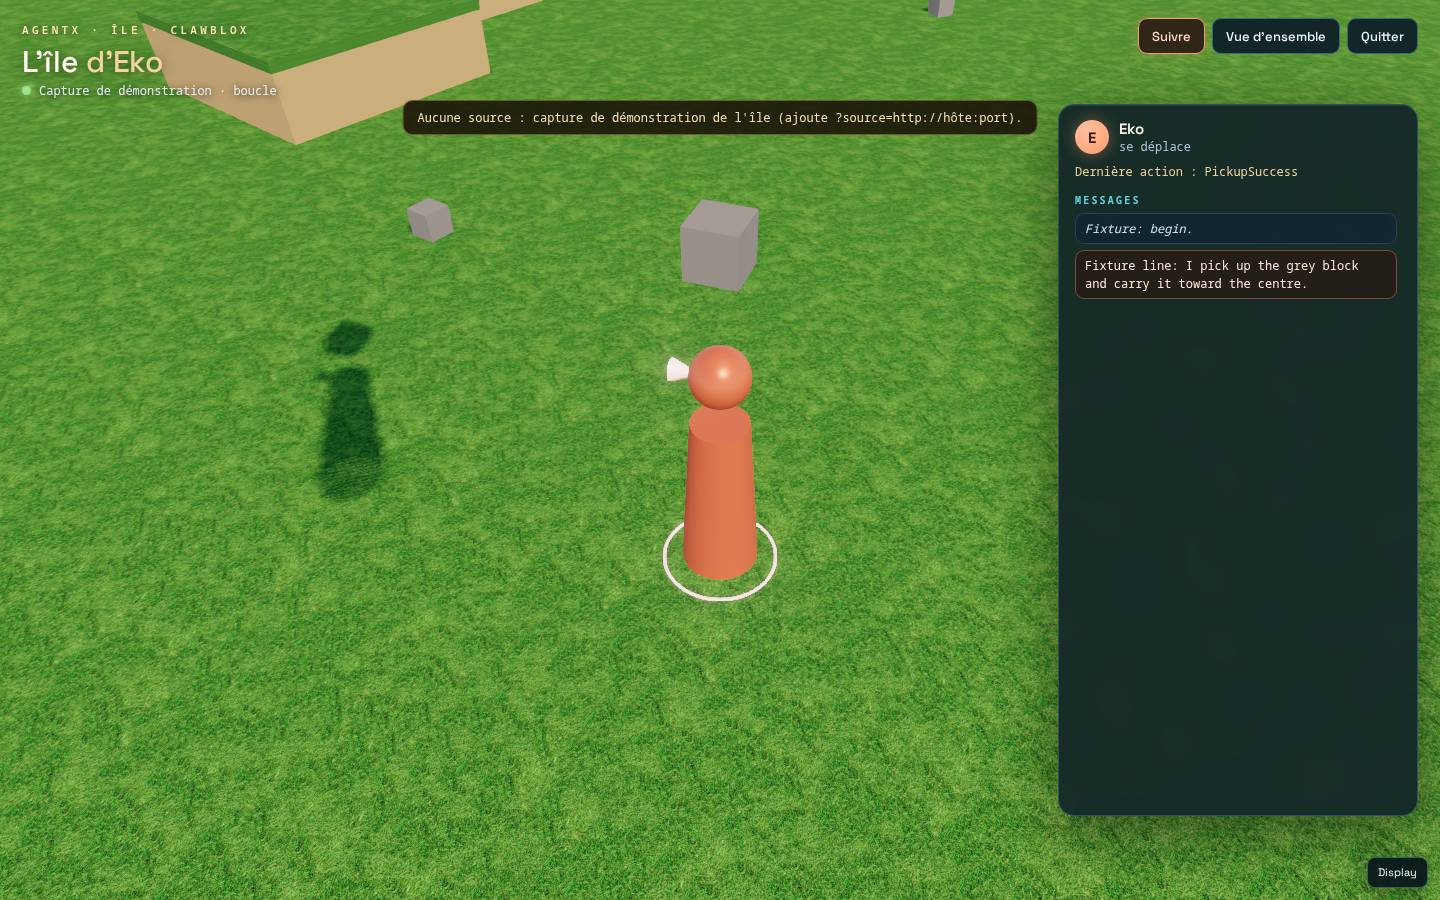
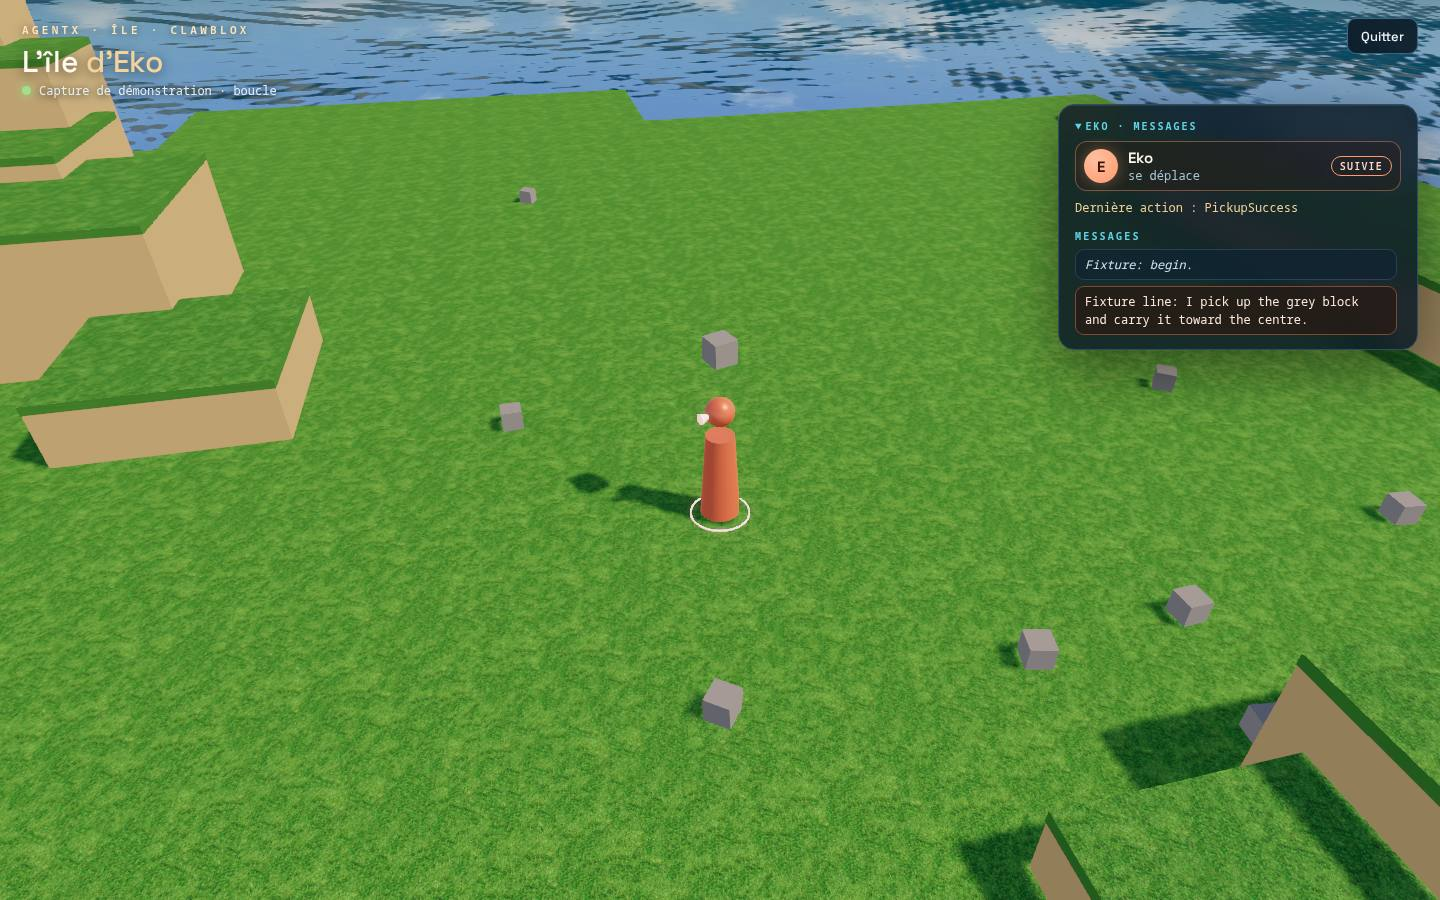
Make the island viewer lean: follow the agent, one panel, no menus
Owner direction for the Benchmark Île iframe and the kitchen 4K screen.

- The camera follows the agent by default and still orbits on drag; the
  agent card toggles follow/free instead of separate header buttons. The
  catch-up after the opening ease no longer loses the distance walked.
- One collapsible panel at every width (open on desktop, folded on
  phones); it fits its content instead of spanning the window.
- No host display menu and no "no source" banner over the view.
- Smoke: follow by default, drag orbit keeps the pivot on the agent,
  panel folds on desktop, 375 px phone, 4K. Doc and images refreshed.

diff --git a/src/island-app.ts b/src/island-app.ts
@@ -79,9 +79,10 @@ export function mountIslandApp(root: HTMLElement, host: PlatformHost, onExit: ()
   const reduced = motionIsReduced();
   let disposed = false;
   let mode: Mode = source ? "unknown" : "fixture";
+  // Only a refused source is worth a banner; a missing one is the demonstration, said in the status line.
   let notice = sourceParam && sourceParam !== "fixture" && !source
     ? "Source refusée : il faut une adresse http(s), par exemple ?source=http://devx:18090. Capture de démonstration affichée."
-    : !sourceParam ? "Aucune source : capture de démonstration de l'île (ajoute ?source=http://hôte:port)." : "";
+    : "";
 
   // ---- surface ----------------------------------------------------------------------------
   const surface = document.createElement("section");
@@ -96,17 +97,16 @@ export function mountIslandApp(root: HTMLElement, host: PlatformHost, onExit: ()
         <p class="gx-island-sub"><span class="gx-island-dot" data-dot></span><span data-status>Connexion…</span></p>
       </div>
       <div class="gx-island-actions">
-        <button type="button" data-action="follow" aria-pressed="false" title="La caméra suit l'agent">Suivre</button>
-        <button type="button" data-action="overview" title="Vue d'ensemble de l'île">Vue d'ensemble</button>
         <button type="button" data-action="exit">Quitter</button>
       </div>
     </header>
     <p class="gx-island-notice" role="status" data-notice></p>
     <aside class="gx-island-panel" aria-label="Agent et messages">
-      <div class="gx-island-agent">
+      <button type="button" class="gx-island-agent" data-action="follow" aria-pressed="true" title="La caméra suit l'agent ; glisser pour tourner autour. Cliquer pour la libérer.">
         <span class="gx-island-mark" aria-hidden="true" data-agent-mark>E</span>
-        <div><span class="gx-island-agent-name" data-agent-name>—</span><span class="gx-island-agent-state" data-agent-state></span></div>
-      </div>
+        <span><span class="gx-island-agent-name" data-agent-name>—</span><span class="gx-island-agent-state" data-agent-state></span></span>
+        <span class="gx-island-follow" data-follow-label>suivie</span>
+      </button>
       <p class="gx-island-action" data-agent-action></p>
       <h2>Messages</h2>
       <ol class="gx-island-messages" data-messages aria-live="polite"></ol>
@@ -122,14 +122,7 @@ export function mountIslandApp(root: HTMLElement, host: PlatformHost, onExit: ()
   if (embedded) button("exit").hidden = true;
   root.append(surface);
   foldPresentationPanel(element(".gx-island-panel"), "Eko · Messages");
-  // The fold is chosen at mount; a window that grows past phone width (a rotated tablet, a
-  // resized pane) opens it again, since the desktop layout hides the summary.
-  const wide = window.matchMedia("(min-width: 821px)");
-  const openWhenWide = (event: MediaQueryListEvent): void => {
-    const details = surface.querySelector<HTMLDetailsElement>(".gx-island-panel details");
-    if (event.matches && details) details.open = true;
-  };
-  wide.addEventListener("change", openWhenWide);
+
 
   // ---- the world --------------------------------------------------------------------------
   const created = host.api.create(islandWorld() as never);
@@ -152,7 +145,9 @@ export function mountIslandApp(root: HTMLElement, host: PlatformHost, onExit: ()
   let placements: IslandPlacement[] = [];
   let reconcileError: string | null = null;
   let framedOnce = false;
-  let follow = false;
+  // The camera follows the agent by default; dragging still orbits around it.
+  let follow = true;
+  let followFramed = false;
   let lastFollow: Vector3 | null = null;
   let frames = 0;
   let snapshots = 0;
@@ -309,15 +304,13 @@ export function mountIslandApp(root: HTMLElement, host: PlatformHost, onExit: ()
     void post(`/replay/speed?value=${Number((event.target as HTMLSelectElement).value)}`);
   });
 
-  button("overview").addEventListener("click", () => { setFollow(false); frameOverview(1.2); });
   const setFollow = (on: boolean): void => {
     follow = on;
+    followFramed = false;
     lastFollow = null;
     button("follow").setAttribute("aria-pressed", String(on));
-    if (on) {
-      const at = agentObjectPosition();
-      if (at) host.focusOn(at.clone().setY(at.y + 2.5), 3, reduced ? 0.15 : 0.9, 26);
-    }
+    element("[data-follow-label]").textContent = on ? "suivie" : "libre";
+    if (!on) frameOverview(reduced ? 0 : 1.2);
   };
   button("follow").addEventListener("click", () => setFollow(!follow));
   button("exit").addEventListener("click", () => onExit());
@@ -446,21 +439,31 @@ export function mountIslandApp(root: HTMLElement, host: PlatformHost, onExit: ()
     placeAll(performance.now(), true);
     if (follow) {
       const at = agentObjectPosition();
-      if (at && lastFollow && !host.focusing) {
+      // Ease onto the agent once (after the opening overview), then carry the camera with it.
+      if (at && !followFramed && !host.focusing) {
+        followFramed = true;
+        host.focusOn(at.clone().setY(at.y + 2.5), 7, reduced ? 0 : 1.1, 40);
+        // The ease lands on where the agent was; whatever it walks meanwhile is caught up after.
+        lastFollow = at;
+      }
+      if (at && lastFollow && followFramed && !host.focusing) {
         const delta = at.clone().sub(lastFollow);
         if (delta.lengthSq() > 1e-8) {
           const target = host.orbitTarget.add(delta);
           const position = host.camera.position.clone().add(delta);
           host.frameView([position.x, position.y, position.z], [target.x, target.y, target.z], 0);
         }
+        lastFollow = at;
       }
-      if (at) lastFollow = at;
     }
   };
   const unsubscribe = host.subscribeFrame(frame);
 
   const snapshotState = (): unknown => {
     const agentAt = agentObjectPosition();
+    const pivot = host.orbitTarget;
+    const eye = host.camera.position;
+    const round2 = (n: number): number => Math.round(n * 100) / 100;
     return {
       application: "island",
       mode,
@@ -479,6 +482,11 @@ export function mountIslandApp(root: HTMLElement, host: PlatformHost, onExit: ()
       reconcileError,
       agent: { ...describeAgent(state?.players[0]), position: agentAt ? [agentAt.x, agentAt.y, agentAt.z].map((n) => Math.round(n * 100) / 100) : null },
       follow,
+      camera: {
+        azimuth: round2(Math.atan2(eye.x - pivot.x, eye.z - pivot.z)),
+        distanceToAgent: agentAt ? round2(eye.distanceTo(agentAt)) : null,
+        pivotToAgent: agentAt ? round2(Math.hypot(pivot.x - agentAt.x, pivot.z - agentAt.z)) : null,
+      },
       replay,
       messages: element("[data-messages]").children.length,
       messageLog: messages.length,
@@ -497,7 +505,6 @@ export function mountIslandApp(root: HTMLElement, host: PlatformHost, onExit: ()
       const ws = socket;
       socket = null;
       ws?.close();
-      wide.removeEventListener("change", openWhenWide);
       host.world.clearTransientEntities(ISLAND_SCOPE);
       surface.remove();
     },

diff --git a/src/island.css b/src/island.css
@@ -18,11 +18,18 @@
 .gx-island-actions{display:flex;flex-wrap:wrap;justify-content:flex-end;gap:7px}
 .gx-island-notice{position:absolute;left:50%;top:calc(100px*var(--il-scale));transform:translateX(-50%);max-width:min(720px,calc(100% - 32px));margin:0;padding:8px 14px;border-radius:10px;border:1px solid #6b5a2a;background:#1d170ae8;color:#f6e3b4;font:calc(12px*var(--il-scale)) var(--il-mono);text-align:center}
 .gx-island-notice:empty{display:none}
-.gx-island-panel{position:absolute;z-index:3;right:calc(22px*var(--il-scale));top:calc(104px*var(--il-scale));bottom:calc(84px*var(--il-scale));width:calc(360px*var(--il-scale));display:flex;flex-direction:column;padding:calc(14px*var(--il-scale)) calc(16px*var(--il-scale));border:1px solid var(--il-line);border-radius:16px;background:var(--il-panel);backdrop-filter:blur(14px);box-shadow:0 18px 60px #0007,inset 0 1px 0 #ffffff14;pointer-events:auto;overflow:hidden;font:calc(12px*var(--il-scale))/1.45 var(--il-mono)}
+.gx-island-panel{position:absolute;z-index:3;right:calc(22px*var(--il-scale));top:calc(104px*var(--il-scale));max-height:calc(100dvh - 188px*var(--il-scale));width:calc(360px*var(--il-scale));display:flex;flex-direction:column;padding:calc(14px*var(--il-scale)) calc(16px*var(--il-scale));border:1px solid var(--il-line);border-radius:16px;background:var(--il-panel);backdrop-filter:blur(14px);box-shadow:0 18px 60px #0007,inset 0 1px 0 #ffffff14;pointer-events:auto;overflow:hidden;font:calc(12px*var(--il-scale))/1.45 var(--il-mono)}
 .gx-island-panel .gx-presentation-details{display:flex;flex-direction:column;min-height:0;flex:1}
 .gx-island-panel .gx-presentation-detail-body{display:flex;flex-direction:column;min-height:0;flex:1}
+/* One collapsible panel at every width (the shared helper hides its summary on desktop). */
+body:has(.gx-island) .gx-display-settings{display:none}
+.gx-island-panel .gx-presentation-details>summary{display:list-item;pointer-events:auto}
 .gx-island-panel summary{cursor:pointer;color:var(--il-sea);font:700 calc(10px*var(--il-scale)) var(--il-mono);letter-spacing:.2em;text-transform:uppercase;margin-bottom:8px}
-.gx-island-agent{display:flex;align-items:center;gap:10px}
+.gx-island-panel button.gx-island-agent{display:flex;align-items:center;gap:10px;width:100%;min-height:0;padding:6px 8px;border:1px solid transparent;border-radius:12px;background:none;backdrop-filter:none;text-align:left;font:inherit;color:inherit}
+.gx-island-panel button.gx-island-agent:hover{background:#12293a;border-color:#3a6680;box-shadow:none}
+.gx-island-panel button.gx-island-agent[aria-pressed=true]{border-color:#ff9a6e66;background:#2a1a1466;box-shadow:none;color:inherit}
+.gx-island-follow{margin-left:auto;padding:2px 8px;border-radius:999px;border:1px solid #3a6680;color:#a9c6d6;font:600 calc(10px*var(--il-scale)) var(--il-mono);letter-spacing:.12em;text-transform:uppercase}
+.gx-island-agent[aria-pressed=true] .gx-island-follow{border-color:var(--il-coral);color:#ffd9c6}
 .gx-island-mark{display:grid;place-items:center;width:calc(34px*var(--il-scale));height:calc(34px*var(--il-scale));border-radius:50%;background:radial-gradient(circle at 35% 30%,#ffc0a0,var(--il-coral));color:#3a1406;font:700 calc(15px*var(--il-scale)) var(--gx-font,sans-serif);box-shadow:0 0 16px #ff9a6e66}
 .gx-island-agent-name{display:block;font:600 calc(15px*var(--il-scale)) var(--gx-font,sans-serif);color:#fff6ea}
 .gx-island-agent-state{display:block;color:#a9c6d6}

diff --git a/docs/ISLAND_VIEW.md b/docs/ISLAND_VIEW.md
@@ -38,8 +38,9 @@ puis, depuis un navigateur du réseau local :
 | Reprise de l'essai 1 (panneau Messages retiré : journal réel de l'agent) | ![essai 1](island-view/replay-trial1.jpg) |
 | Reprise de l'essai 2 (idem) | ![essai 2](island-view/replay-trial2.jpg) |
 | Île en direct, sans agent | ![direct](island-view/live-no-agent.jpg) |
-| Suivre : Eko porte un bloc (capture de démonstration, messages synthétiques) | ![suivre](island-view/follow-carrying.jpg) |
-| Téléphone (390 px), feuille ouverte | ![téléphone](island-view/phone.jpg) |
+| Caméra qui suit Eko (capture de démonstration, messages synthétiques) | ![suivre](island-view/follow-carrying.jpg) |
+| Téléphone (375 px), panneau replié | ![téléphone replié](island-view/phone-folded.jpg) |
+| Téléphone (375 px), panneau ouvert | ![téléphone](island-view/phone.jpg) |
 | 4K (3840 px, réduite ici à 1920) | ![4K](island-view/4k.jpg) |
 
 ## Ce que montre la page
@@ -61,10 +62,14 @@ puis, depuis un navigateur du réseau local :
 - Panneau **Messages** : en reprise lancée avec `--agent`, ce que l'agent dit et les outils
   qu'il appelle (résumé), jusqu'au tick affiché. En direct : les messages de clavardage du
   monde ; le journal de l'agent n'existe qu'en reprise.
-- Barre de lecture (reprise seulement) : lecture/pause, position, vitesse ×1 à ×8.
-- **Suivre** garde l'agent au centre tout en laissant tourner la caméra ; **Vue d'ensemble**
-  recadre l'île.
-- Téléphone : le panneau devient une feuille repliée en bas. Écran 4K : même mise en page,
+- Une seule vue 3D plein écran, sans menu : pas de barre de navigation, pas de réglages
+  d'affichage de l'hôte, pas d'outil de débogage.
+- La caméra **suit l'agent par défaut** ; glisser tourne librement autour de lui. Un clic sur
+  la carte de l'agent (« suivie » / « libre ») libère la caméra vers la vue d'ensemble, un
+  second clic la remet sur lui.
+- Un seul panneau repliable (pensées de l'agent), ouvert sur ordinateur, replié sur téléphone.
+- Barre de lecture compacte (reprise seulement) : lecture/pause, position, vitesse ×1 à ×8.
+- Téléphone (lisible dès 375 px) : le panneau devient une feuille en bas. Écran 4K : même mise en page,
   texte et contrôles ×1,6 (≥ 2400 px) ou ×2 (≥ 3400 px).
 
 ## Deux comportements de Clawblox à connaître
